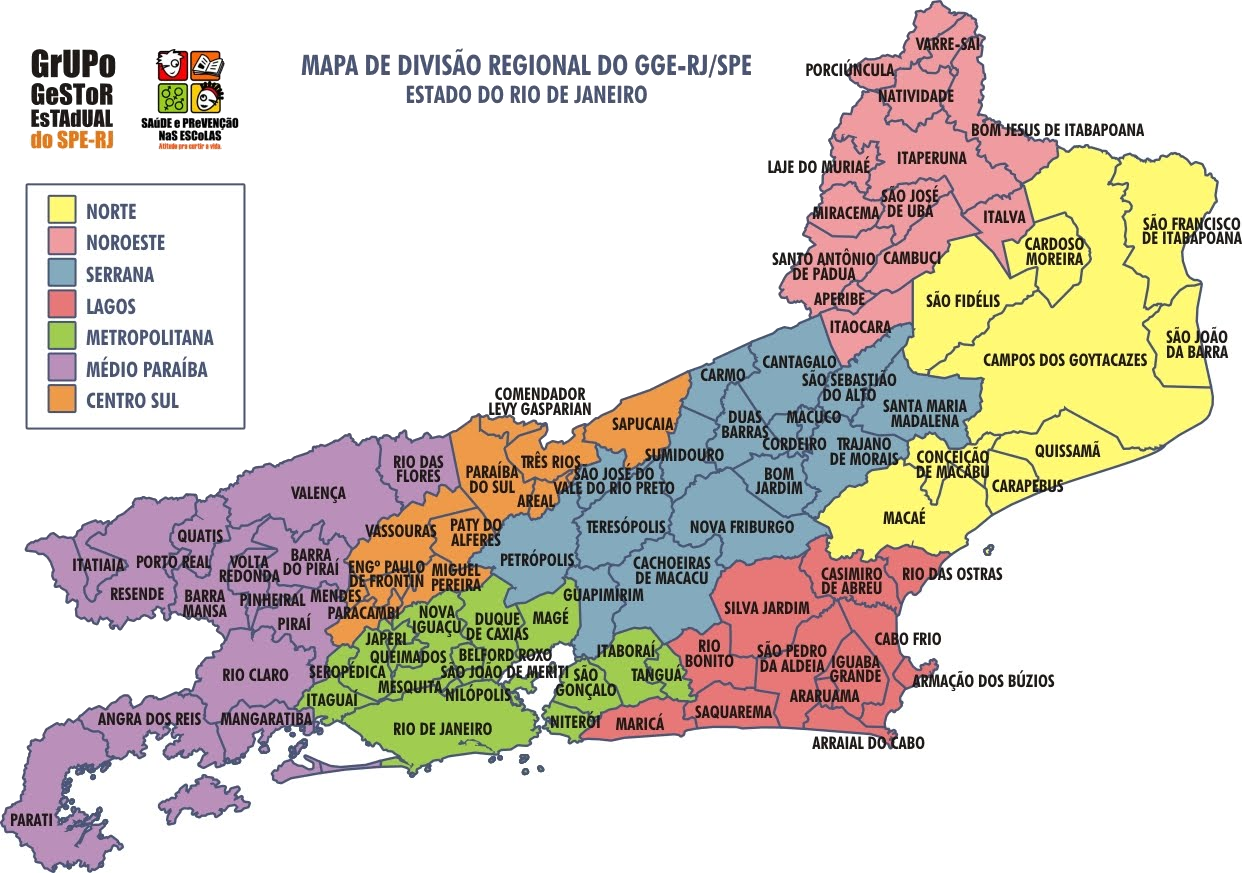
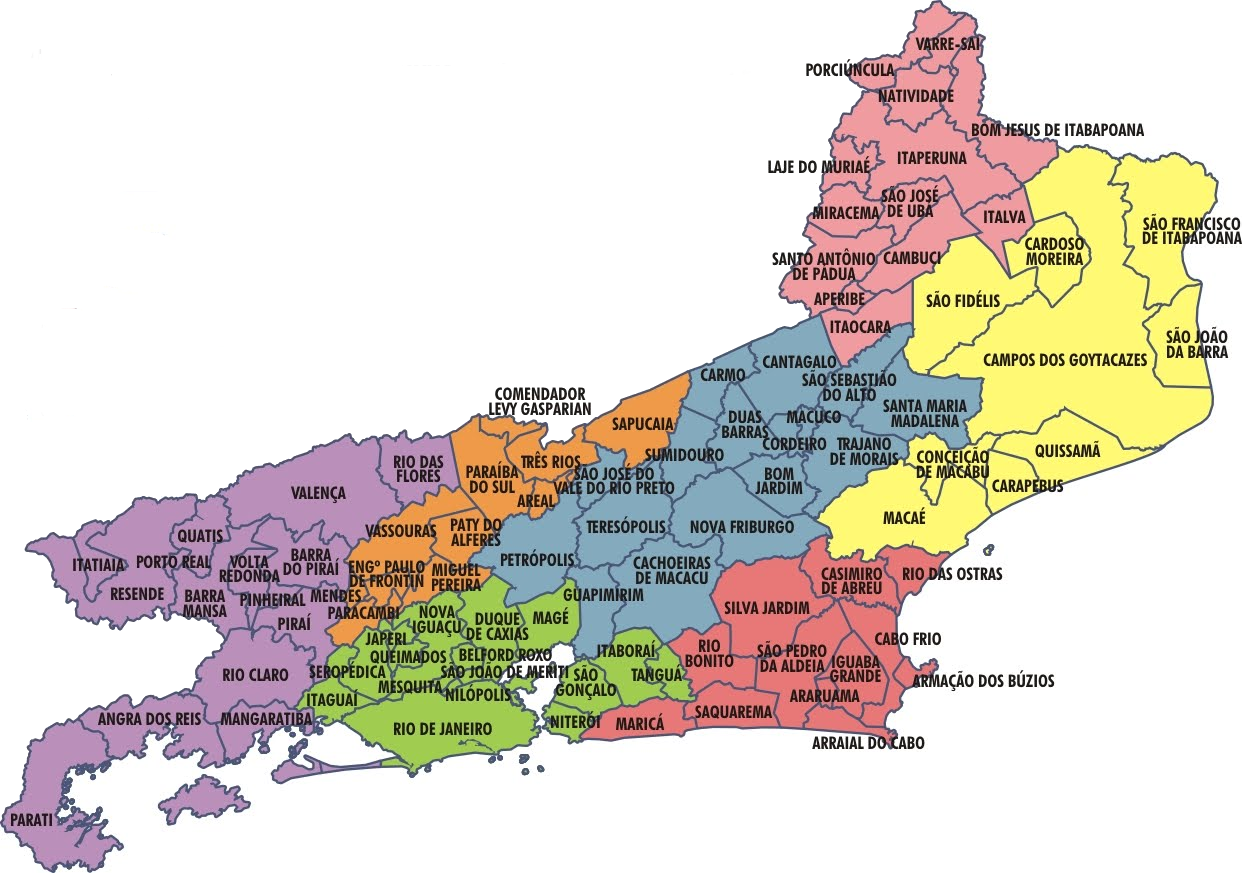
- Ajuste dos botões: Tipo de equipamento e Lista de municípios. - Alteração do tema.

Changed region(s): [[0.0, 0.0309, 0.2142, 0.4948], [0.2448, 0.0619, 0.6119, 0.1237]]

diff --git a/src/app/pages/tela2/buttons/components/municipiosButtons/municipiosButtons.html b/src/app/pages/tela2/buttons/components/municipiosButtons/municipiosButtons.html
@@ -1,138 +1,149 @@
- <ul>
-    <li><a href="#"><img src="{{ ( 'seta-down2'| baProfilePicture ) }}" width="35px" height="35px"> </a>
+<ul>
+    <li> <img src="{{ ( 'seta-down2'| baProfilePicture ) }}" width="35px" height="35px">
       <ul id="barra-de-rolagem">
-        <li> <a href="#"> A </a></li>
-        <li><a href="#"> Angra dos Reis </a></li>
-        <li><a href="#"> Aperibé</a></li>
-        <li><a href="#"> Araruama </a></li>
-        <li><a href="#"> Areal </a></li>
-        <li><a href="#"> Armação dos Búzios </a></li>
-        <li><a href="#"> Arraial do Cabo </a></li>
+        <li class="dropdown-item"> <a href="#"> Angra dos Reis </a> </li>
+        <li class="dropdown-item"> <a href="#"> Aperibé</a> </li>
+        <li class="dropdown-item"> <a href="#"> Araruama </a> </li>
+        <li class="dropdown-item"> <a href="#"> Areal </a> </li>
+        <li class="dropdown-item"> <a href="#"> Armação dos Búzios </a> </li>
+        <li class="dropdown-item"> <a href="#"> Arraial do Cabo </a> </li>
 
-        <li><a href="#"> B </a></li>
-        <li><a href="#"> Barra do Piraí </a></li>
-        <li><a href="#"> Barra Mansa </a></li>
-        <li><a href="#"> Belford Roxo </a></li>
-        <li><a href="#"> Bom Jardim </a></li>
-        <li><a href="#"> Bom Jesus do Itabapoana </a></li>
+        <li class="dropdown-divider"> </li>
 
-        <li><a href="#"> C </a></li>
-        <li><a href="#"> Cabo Frio </a></li>
-        <li><a href="#"> Cachoeiras de Macacu </a></li>
-        <li><a href="#"> Cambuci</a></li>
-          <li><a href="#"> Campos dos Goytacazes </a></li>
-          <li><a href="#"> Cantagalo </a></li>
-          <li><a href="#"> Carapebus </a></li>
-          <li><a href="#"> Cardoso Moreira </a></li>
-          <li><a href="#"> Carmo</a></li>
-          <li><a href="#"> Casimiro de Abreu </a></li>
-          <li><a href="#"> Comendador Levy Gasparian </a></li>
-          <li><a href="#"> Conceição de Macabu </a></li>
-          <li><a href="#"> Cordeiro </a></li>
+        <li class="dropdown-item"> <a href="#"> Barra do Piraí </a> </li>
+        <li class="dropdown-item"> <a href="#"> Barra Mansa </a> </li>
+        <li class="dropdown-item"> <a href="#"> Belford Roxo </a> </li>
+        <li class="dropdown-item"> <a href="#"> Bom Jardim </a> </li>
+        <li class="dropdown-item"> <a href="#"> Bom Jesus do Itabapoana </a> </li>
 
-          <li><a href="#"> D </a></li>
-          <li><a href="#"> Duas Barras </a></li>
-          <li><a href="#"> Duque de Caxias </a></li>
+        <li class="dropdown-divider"> </li>
 
-          <li><a href="#"> E </a></li>
-          <li><a href="#"> Engenheiro Paulo de Frontin </a></li>
+        <li class="dropdown-item"> <a href="#"> Cabo Frio </a> </li>
+        <li class="dropdown-item"> <a href="#"> Cachoeiras de Macacu </a> </li>
+        <li class="dropdown-item"> <a href="#"> Cambuci</a> </li>
+        <li class="dropdown-item"> <a href="#"> Campos dos Goytacazes </a> </li>
+        <li class="dropdown-item"> <a href="#"> Cantagalo </a> </li>
+        <li class="dropdown-item"> <a href="#"> Carapebus </a> </li>
+        <li class="dropdown-item"> <a href="#"> Cardoso Moreira </a> </li>
+        <li class="dropdown-item"> <a href="#"> Carmo</a> </li>
+        <li class="dropdown-item"> <a href="#"> Casimiro de Abreu </a> </li>
+        <li class="dropdown-item"> <a href="#"> Comendador Levy Gasparian </a> </li>
+        <li class="dropdown-item"> <a href="#"> Conceição de Macabu </a> </li>
+        <li class="dropdown-item"> <a href="#"> Cordeiro </a> </li>
 
-          <li><a href="#"> G </a></li>
-          <li><a href="#"> Guapimirim </a></li>
+        <li class="dropdown-divider"> </li>
 
-          <li><a href="#"> I </a></li>
-          <li><a href="#"> Iguaba Grande </a></li>
-          <li><a href="#"> Itaboraí </a></li>
-          <li><a href="#"> Itaguaí  </a></li>
-            <li><a href="#"> Italva </a></li>
-            <li><a href="#"> Itaocara </a></li>
-            <li><a href="#"> Itaperuna </a></li>
-            <li><a href="#"> Itatiaia </a></li>
+        <li class="dropdown-item"> <a href="#"> Duas Barras </a> </li>
+        <li class="dropdown-item"> <a href="#"> Duque de Caxias </a> </li>
 
-            <li><a href="#"> J </a></li>
-            <li><a href="#"> Japeri </a></li>
+        <li class="dropdown-divider"> </li>
 
-            <li><a href="#"> L </a></li>
-            <li><a href="#"> Laje do Muriaé </a></li>
+        <li class="dropdown-item"> <a href="#"> Engenheiro Paulo de Frontin </a> </li>
 
-            <li><a href="#"> M </a></li>
-            <li><a href="#"> Macaé </a></li>
-            <li><a href="#"> Macuco </a></li>
-            <li><a href="#"> Magé </a></li>
-            <li><a href="#"> Mangaratiba </a></li>
-            <li><a href="#"> Maricá </a></li>
-            <li><a href="#"> Mendes </a></li>
-            <li><a href="#"> Mesquita </a></li>
-            <li><a href="#"> Miguel Pereira </a></li>
-            <li><a href="#"> Miracema </a></li>
+        <li class="dropdown-divider"> </li>
 
-            <li><a href="#"> N </a></li>
-            <li><a href="#"> Natividade </a></li>
-            <li><a href="#"> Nilópolis </a></li>
-            <li><a href="#"> Niterói </a></li>
-            <li><a href="#"> Nova Friburgo </a></li>
-            <li><a href="#"> Nova Iguaçu </a></li>
+        <li class="dropdown-item"> <a href="#"> Guapimirim </a> </li>
 
-            <li><a href="#"> P </a></li>
-            <li><a href="#"> Paracambi </a></li>
-            <li><a href="#"> Paraíba do Sul </a></li>
-            <li><a href="#"> Paraty </a></li>
-            <li><a href="#"> Paty do Alferes </a></li>
-            <li><a href="#"> Petrópolis </a></li>
-            <li><a href="#"> Pinheiral </a></li>
-            <li><a href="#"> Piraí </a></li>
-            <li><a href="#"> Porciúncula </a></li>
-            <li><a href="#"> Porto Real </a></li>
+        <li class="dropdown-divider"> </li>
 
-            <li><a href="#"> Q </a></li>
-            <li><a href="#"> Quatis </a></li>
-            <li><a href="#"> Queimados </a></li>
-            <li><a href="#"> Quissamã </a></li>
+        <li class="dropdown-item"> <a href="#"> Iguaba Grande </a> </li>
+        <li class="dropdown-item"> <a href="#"> Itaboraí </a> </li>
+        <li class="dropdown-item"> <a href="#"> Itaguaí  </a> </li>
+        <li class="dropdown-item"> <a href="#"> Italva </a> </li>
+        <li class="dropdown-item"> <a href="#"> Itaocara </a> </li>
+        <li class="dropdown-item"> <a href="#"> Itaperuna </a> </li>
+        <li class="dropdown-item"> <a href="#"> Itatiaia </a> </li>
 
-            <li><a href="#"> R </a></li>
-            <li><a href="#"> Resende </a></li>
-            <li><a href="#"> Rio Bonito </a></li>
-            <li><a href="#"> Rio Claro </a></li>
-            <li><a href="#"> Rio das Flores </a></li>
-            <li><a href="#"> Rio das Ostras </a></li>
-            <li><a href="#"> Rio de Janeiro</a></li>
+        <li class="dropdown-divider"> </li>
 
-            <li><a href="#"> S</a></li>
-            <li><a href="#"> Santa Maria Madalena </a></li>
-            <li><a href="#"> Santo Antônio de Pádua </a></li>
-            <li><a href="#"> São Fidélis </a></li>
-            <li><a href="#"> São Francisco de Itabapoana </a></li>
-            <li><a href="#"> São Gonçalo </a></li>
-            <li><a href="#"> São João da Barra </a></li>
-            <li><a href="#"> São João de Meriti </a></li>
-            <li><a href="#"> São José de Ubá </a><li>
-            <li><a href="#"> São José do Vale do Rio Preto </a></li>
-            <li><a href="#"> São Pedro da Aldeia </a></li>
-            <li><a href="#"> São Sebastião do Alto </a></li>
-            <li><a href="#"> Sapucaia </a></li>
-            <li><a href="#"> Saquearema </a></li>
-            <li><a href="#"> Seropédica </a></li>
-            <li><a href="#"> Silva Jardim </a></li>
-            <li><a href="#"> Sumidouro </a></li>
+        <li class="dropdown-item"> <a href="#"> Japeri </a> </li>
 
-            <li><a href="#"> T </a></li>
-            <li><a href="#"> Tanguá </a></li>
-            <li><a href="#"> Teresópolis </a></li>
-            <li><a href="#"> Trajano de Moraes</a></li>
-            <li><a href="#"> Três Rios </a></li>
+        <li class="dropdown-divider"> </li>
 
-            <li><a href="#"> V </a></li>
-            <li><a href="#"> Valença </a></li>
-            <li><a href="#"> Varre-Sai </a></li>
-            <li><a href="#"> Vassouras </a></li>
-            <li><a href="#"> Volta Redonda </a></li>
+        <li class="dropdown-item"> <a href="#"> Laje do Muriaé </a> </li>
+
+        <li class="dropdown-divider"> </li>
+
+        <li class="dropdown-item"> <a href="#"> Macaé </a> </li>
+        <li class="dropdown-item"> <a href="#"> Macuco </a> </li>
+        <li class="dropdown-item"> <a href="#"> Magé </a> </li>
+        <li class="dropdown-item"> <a href="#"> Mangaratiba </a> </li>
+        <li class="dropdown-item"> <a href="#"> Maricá </a> </li>
+        <li class="dropdown-item"> <a href="#"> Mendes </a> </li>
+        <li class="dropdown-item"> <a href="#"> Mesquita </a> </li>
+        <li class="dropdown-item"> <a href="#"> Miguel Pereira </a> </li>
+        <li class="dropdown-item"> <a href="#"> Miracema </a> </li>
+
+        <li class="dropdown-divider"> </li>
+
+        <li class="dropdown-item"> <a href="#"> Natividade </a> </li>
+        <li class="dropdown-item"> <a href="#"> Nilópolis </a> </li>
+        <li class="dropdown-item"> <a href="#"> Niterói </a> </li>
+        <li class="dropdown-item"> <a href="#"> Nova Friburgo </a> </li>
+        <li class="dropdown-item"> <a href="#"> Nova Iguaçu </a> </li>
+
+        <li class="dropdown-divider"> </li>
+
+        <li class="dropdown-item"> <a href="#"> Paracambi </a> </li>
+        <li class="dropdown-item"> <a href="#"> Paraíba do Sul </a> </li>
+        <li class="dropdown-item"> <a href="#"> Paraty </a> </li>
+        <li class="dropdown-item"> <a href="#"> Paty do Alferes </a> </li>
+        <li class="dropdown-item"> <a href="#"> Petrópolis </a> </li>
+        <li class="dropdown-item"> <a href="#"> Pinheiral </a> </li>
+        <li class="dropdown-item"> <a href="#"> Piraí </a> </li>
+        <li class="dropdown-item"> <a href="#"> Porciúncula </a> </li>
+        <li class="dropdown-item"> <a href="#"> Porto Real </a> </li>
+
+        <li class="dropdown-divider"> </li>
+
+        <li class="dropdown-item"> <a href="#"> Quatis </a> </li>
+        <li class="dropdown-item"> <a href="#"> Queimados </a> </li>
+        <li class="dropdown-item"> <a href="#"> Quissamã </a> </li>
+
+        <li class="dropdown-divider"> </li>
+
+        <li class="dropdown-item"> <a href="#"> Resende </a> </li>
+        <li class="dropdown-item"> <a href="#"> Rio Bonito </a> </li>
+        <li class="dropdown-item"> <a href="#"> Rio Claro </a> </li>
+        <li class="dropdown-item"> <a href="#"> Rio das Flores </a> </li>
+        <li class="dropdown-item"> <a href="#"> Rio das Ostras </a> </li>
+        <li class="dropdown-item"> <a href="#"> Rio de Janeiro</a> </li>
+
+        <li class="dropdown-divider"> </li>
+
+        <li class="dropdown-item"> <a href="#"> Santa Maria Madalena </a> </li>
+        <li class="dropdown-item"> <a href="#"> Santo Antônio de Pádua </a> </li>
+        <li class="dropdown-item"> <a href="#"> São Fidélis </a> </li>
+        <li class="dropdown-item"> <a href="#"> São Francisco de Itabapoana </a> </li>
+        <li class="dropdown-item"> <a href="#"> São Gonçalo </a> </li>
+        <li class="dropdown-item"> <a href="#"> São João da Barra </a> </li>
+        <li class="dropdown-item"> <a href="#"> São João de Meriti </a> </li>
+        <li class="dropdown-item"> <a href="#"> São José de Ubá </a> <li>
+        <li class="dropdown-item"> <a href="#"> São José do Vale do Rio Preto </a> </li>
+        <li class="dropdown-item"> <a href="#"> São Pedro da Aldeia </a> </li>
+        <li class="dropdown-item"> <a href="#"> São Sebastião do Alto </a> </li>
+        <li class="dropdown-item"> <a href="#"> Sapucaia </a> </li>
+        <li class="dropdown-item"> <a href="#"> Saquearema </a> </li>
+        <li class="dropdown-item"> <a href="#"> Seropédica </a> </li>
+        <li class="dropdown-item"> <a href="#"> Silva Jardim </a> </li>
+        <li class="dropdown-item"> <a href="#"> Sumidouro </a> </li>
+
+        <li class="dropdown-divider"> </li>
+
+        <li class="dropdown-item"> <a href="#"> Tanguá </a> </li>
+        <li class="dropdown-item"> <a href="#"> Teresópolis </a> </li>
+        <li class="dropdown-item"> <a href="#"> Trajano de Moraes</a> </li>
+        <li class="dropdown-item"> <a href="#"> Três Rios </a> </li>
+
+        <li class="dropdown-divider"> </li>
+
+        <li class="dropdown-item"> <a href="#"> Valença </a> </li>
+        <li class="dropdown-item"> <a href="#"> Varre-Sai </a> </li>
+        <li class="dropdown-item"> <a href="#"> Vassouras </a> </li>
+        <li class="dropdown-item"> <a href="#"> Volta Redonda </a> </li>
 
       </ul>
 
     </li>
   </ul>
-
-
-
-
 

diff --git a/src/app/pages/tela2/buttons/components/municipiosButtons/municipiosButtons.scss b/src/app/pages/tela2/buttons/components/municipiosButtons/municipiosButtons.scss
@@ -1,6 +1,6 @@
 #barra-de-rolagem {
   width:300px;
-  height:100px;
+  height:200px;
   background-color: white;
   opacity:0.7;
   overflow: auto;
@@ -22,6 +22,8 @@ ul li a{
   color:slategray;
 }
 ul li a:hover {
+  color: white;
+  background-color: lightslategray;
   text-decoration: underline;
 }
 ul li ul {

diff --git a/src/app/pages/tela2/listaEquipamentos/listaEquipamentos.html b/src/app/pages/tela2/listaEquipamentos/listaEquipamentos.html
@@ -11,6 +11,7 @@
             <i class="ion-ios-telephone"></i>  24 2443-1087</p>
                   Porte <p class="parágrafo"> GRANDE </p>
         </td>
+
       </ba-card>
 
       <ba-card class="col-xlg-6 col-xl-6 col-lg-6 col-sm-6 col-xs-6">

diff --git a/src/app/theme/sass/conf/colorSchemes/_dark.scss b/src/app/theme/sass/conf/colorSchemes/_dark.scss
@@ -59,7 +59,7 @@ $hoverlink: $primary-dark;
 @mixin body-bg() {
   background-color: $body-bg;
 
-  $mainBgUrl: $images-root + 'azul2.png';
+  $mainBgUrl: $images-root + 'tema6.png';
 
   &::before {
     content: '';

diff --git a/src/app/pages/tela1/buttons/components/equipamentoButtons/equipamentoButtons.component.ts b/src/app/pages/tela1/buttons/components/equipamentoButtons/equipamentoButtons.component.ts
@@ -2,6 +2,7 @@ import {Component, HostListener} from '@angular/core';
 
 @Component({
   selector: 'e-buttons',
+  styleUrls:['./equipamentoButtons.scss'],
   templateUrl: './equipamentoButtons.html'
 })
 

diff --git a/src/app/pages/tela2/buttons/components/equipamentoButtons/equipamentoButtons.component.ts b/src/app/pages/tela2/buttons/components/equipamentoButtons/equipamentoButtons.component.ts
@@ -2,6 +2,7 @@ import {Component, HostListener} from '@angular/core';
 
 @Component({
   selector: 'e-buttons',
+  styleUrls:['./equipamentoButtons.scss'],
   templateUrl: './equipamentoButtons.html'
 })
 

diff --git a/src/app/theme/sass/_buttons.scss b/src/app/theme/sass/_buttons.scss
@@ -288,7 +288,6 @@ button.progress-button {
 .ng2, .blur {
   .dropdown button.btn.btn-default.dropdown-toggle {
     &:focus, &:active {
-      background-color: transparent;
     }
   }
 }

diff --git a/src/app/pages/tela1/buttons/components/equipamentoButtons/equipamentoButtons.scss b/src/app/pages/tela1/buttons/components/equipamentoButtons/equipamentoButtons.scss
@@ -1,0 +1,9 @@
+ul li a {
+  color: slategray;
+}
+
+ul li a:hover{
+  color: white;
+  background-color: lightslategray;
+  text-decoration: underline;
+}

diff --git a/src/app/pages/tela2/buttons/components/equipamentoButtons/equipamentoButtons.scss b/src/app/pages/tela2/buttons/components/equipamentoButtons/equipamentoButtons.scss
@@ -1,0 +1,9 @@
+ul li a {
+  color: slategray;
+}
+
+ul li a:hover{
+  color: white;
+  background-color: lightslategray;
+  text-decoration: underline;
+}

diff --git a/src/app/pages/tela2/buttons/buttons.scss b/src/app/pages/tela2/buttons/buttons.scss
@@ -146,3 +146,4 @@ $btn-icon-size: 34px;
   background-color: transparent;
   overflow: auto;
 }
+
